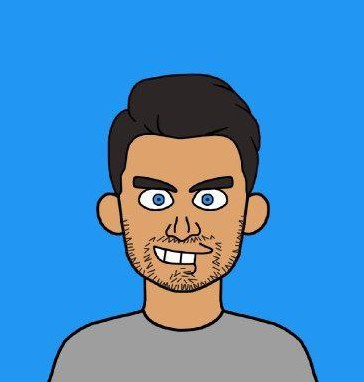
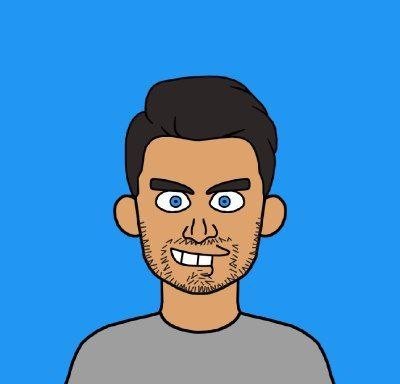
some minor updates

Changed region(s): [[0.1209, 0.1728, 0.8764, 1.0]]

diff --git a/index.html b/index.html
@@ -10,43 +10,75 @@ content="Agraj P Das (@bRUttaZz)! A software enthusiast. Find my projects and co
 <meta name="robots" content="index,follow">
 <meta name="googlebot" content="index,follow">
 <title>bRuttaZz</title>
+<script type="application/ld+json">
+{
+"@context": "https://schema.org",
+"@id": "https://brutt.site",
+"@type": "WebPage",
+"name": "Agraj P Das (bRuttaZz)",
+"url": "https://brutt.site",
+"description": "Agraj P Das (@bRUttaZz)! A software enthusiast. Find my projects and connection info over here!",
+"logo": "https://brutt.site/assets/images/avatar.jpg",
+"sameAs": [
+"https://twitter.com/bruttazz_",
+"https://github.com/bruttazz",
+"https://instagram.com/bruttazz",
+"https://fosstodon.org/@bRUttaZz"
+]
+}
+</script>
 <link rel="stylesheet" href="./assets/style.css">
 <link rel="shortcut icon" href="./assets/images/avatar.jpg" type="image/x-icon">
+<link href="https://cdn.jsdelivr.net/npm/@mdi/font@7.4.47/css/materialdesignicons.min.css" rel="stylesheet"
+crossorigin="anonymous">
+<meta property="og:locale" content="en_GB">
+<meta property="og:type" content="website">
+<meta property="og:title" content="Agraj P Das (@bRuttaZz)">
+<meta property="og:description"
+content="Agraj P Das (@bRUttaZz)! A software enthusiast. Find my projects and connection info over here!">
+<meta property="og:url" content="https://brutt.site">
+<meta property="og:site_name" content="bRuttaZz">
+<meta property="og:image" content="https://brutt.site/assets/images/avatar.jpg">
+<meta name="twitter:card" content="summary_large_image">
+<meta name="twitter:title" content="Agraj P Das (@bRuttaZz)">
+<meta name="twitter:description"
+content="Agraj P Das (@bRUttaZz)! A software enthusiast. Find my projects and connection info over here!">
+<meta name="twitter:site" content="@bRuttaZz">
+<meta name="twitter:creator" content="@bRuttaZz">
+<meta name="twitter:image" content="https://brutt.site/assets/images/avatar.jpg">
 </head>
 <body>
 <div class="profile-cover">
 <h1>Agraj P Das</h1>
-<div class="switch-box">
-<img>
+<div class="theme-swticher theme-switcher-btn text-center m-md-4 ">
+<span class="mdi mdi-brightness-6 fs-5"></span>
 </div>
 <p class="short-catch">This site is intentionally being simple..</p>
 <div class="container">
 <div class="profile-img">
-<img src="./assets/images/me.jpg" class="realtar">
+<img src="./assets/images/avatar.jpg" class="realtar">
 </div>
 <div class="bio">
 <div class="bio-info">
-<span>dob</span><b> 28-10-2001 </b>
+<span>dob</span><b> &nbsp28-10-2001 </b>
 </div><div class="bio-info">
-<span>height</span><b> not yet measured </b>
+<span>height</span><b> &nbspnot yet measured </b>
 </div><div class="bio-info">
-<span>occupation</span><b> R&D Engineer, Pixdynamics Pvt Ltd </b>
+<span>occupation</span><b> &nbspR&D Engineer, Pixdynamics Pvt Ltd </b>
 </div><div class="bio-info">
-<span>localization</span><b> Kochi, Kerala </b>
+<span>localization</span><b> &nbspKochi, Kerala </b>
 </div><div class="bio-info">
-<span>expertise</span><b> Web Technologies, Applied AI, System Design, Containers </b>
+<span>expertise</span><b> &nbspWeb Technologies, Applied AI, System Design, Containers </b>
 </div><div class="bio-info">
-<span>proficient human languages</span><b> Malayalam, English </b>
+<span>proficient human languages</span><b> &nbspMalayalam, English </b>
 </div><div class="bio-info">
-<span>proficient computer languages</span><b> Python, JS, Go, C++ </b>
+<span>proficient computer languages</span><b> &nbspPython, JS, Go, C++ </b>
 </div><div class="bio-info">
-<span>areas of interest</span><b> System Design, System Kernal, Computer Networking </b>
+<span>ask me about</span><b> &nbspSystem Design, Containers, Computer Networking </b>
 </div><div class="bio-info">
-<span>pgp keys</span><b> <a href="./facts/pgp.key" >download</a> </b>
+<span>pgp keys</span><b> &nbsp<a href="./facts/pgp.key" >4546 EC98 5FA6 E6CD E09A 5114 18CD 31EE 87B1 AA02</a> </b>
 </div><div class="bio-info">
-<span>github</span><b> <a href="https://github.com/bruttazz">bRuttaZz</a> </b>
-</div><div class="bio-info">
-<span>portfolio (resume maybe)</span><b> <a href="https://docs.google.com/document/d/1b6DY4mMml01b1PXEojT7NmB7B3qYrsX8q_c0ABdWuI0/edit?usp=sharing">G-drive</a> </b>
+<span>github</span><b> &nbsp<a href="https://github.com/bruttazz">bRuttaZz</a> </b>
 </div>
 <!-- will be filled with about.me.json content  -->
 </div>
@@ -63,17 +95,17 @@ content="Agraj P Das (@bRUttaZz)! A software enthusiast. Find my projects and co
 </div>
 </div>
 <center>
-<p>
+<p class="social-media-icons">
 <a href=https://github.com/bruttazz>
-<img src="./assets/images/socialmedia/github.png" width=20px>
+<span class="mdi mdi-github"></span>
 </a><a href=https://fosstodon.org/@bRuttaZz>
-<img src="./assets/images/socialmedia/mastodon.png" width=20px>
+<span class="mdi mdi-mastodon"></span>
 </a><a href=https://www.instagram.com/bRuttaZz>
-<img src="./assets/images/socialmedia/insta.png" width=20px>
+<span class="mdi mdi-instagram"></span>
 </a><a href=https://www.linkedin.com/in/agraj-p-das-a656a423b>
-<img src="./assets/images/socialmedia/linkedin.png" width=20px>
+<span class="mdi mdi-linkedin"></span>
 </a><a href=https://twitter.com/bruttazz_>
-<img src="./assets/images/socialmedia/twitter.png" width=20px>
+<span class="mdi mdi-twitter"></span>
 </a>
 </p>
 </center>
@@ -81,9 +113,7 @@ content="Agraj P Das (@bRUttaZz)! A software enthusiast. Find my projects and co
 <!-- the projects section  -->
 <div class="project-sec">
 <b class="project-sec-heading">
-<span>
-<img src="./assets/images/craps/pinned.png" width="20px">
-</span>
+<span class="mdi mdi-pin"></span>
 pinned projects
 </b>
 <div class="project-cards">
@@ -131,7 +161,7 @@ pinned projects
 <script>
 const avatar = document.createElement("img")
 avatar.classList.add("avatar")
-avatar.src = "./assets/images/avatar.jpg"
+avatar.src = "./assets/images/me.jpg"
 const profileImageContainer = document.querySelector(".profile-img")
 const realtar = document.querySelector(".realtar")
 let avatarFlag = true;
@@ -146,12 +176,44 @@ profileImageContainer.append(realtar);
 }
 avatarFlag = !avatarFlag
 });
+/**
+* Bind theming switching and ..you knw..!
+*/
+(function bindThemeSwitch() {
+const systemMode = window.matchMedia("(prefers-color-scheme: dark)");
+const setSysTheme = () => {
+if (systemMode.matches) {
+document.documentElement.classList.add("dark")
+sessionStorage.setItem("theme-selection", "dark");
+} else {
+document.documentElement.classList.remove("dark")
+sessionStorage.setItem("theme-selection", "light");
+}
+}
+// set sys theme
+const cachedState = sessionStorage.getItem("theme-selection")
+if (cachedState === "dark")
+document.documentElement.classList.add("dark")
+else if (!cachedState)
+setSysTheme()
+systemMode.addEventListener("change", setSysTheme)
+// add custom button functionality
+document.querySelector(".theme-switcher-btn")?.addEventListener("click", (e) => {
+if (document.documentElement.classList.contains("dark")) {
+document.documentElement.classList.remove("dark");
+sessionStorage.setItem("theme-selection", "light");
+} else {
+document.documentElement.classList.add("dark")
+sessionStorage.setItem("theme-selection", "dark");
+}
+})
+})();
 </script>
 <noscript>Pardon! This page require Javascript to render. Kindly use a modern browser :)</noscript>
 </body>
 <footer>
 <center>
-<a rel="me" href="https://fosstodon.org/@bRuttaZz" style="color: blue;">--</a>
+<a rel="me" href="https://fosstodon.org/@bRuttaZz" style="color: blue;">-</a>
 </center>
 </footer>
 </html>

diff --git a/assets/style.css b/assets/style.css
@@ -4,13 +4,31 @@ body {
     font-family: 'Roboto', sans-serif;
 }
 
-a {
-    text-decoration: none;
-    color: #cef083;
+:root {
+     /* default to light mode  */
+    --background-color: #fafafa;
+    --profile-cover-bg: antiquewhite;
+    --profile-cover-text-color: #0e0d0d;
+    --profile-cover-secondary-text-color: rgb(124, 124, 123);
+    --profile-cover-bio-text-color: rgb(73, 73, 73);
+    --profile-cover-bio-badge-bg-color: rgb(158, 191, 253);
+    --profile-cover-bio-badge-text-color: rgb(88, 88, 88);
+    --profile-cover-about-bg: rgba(131, 238, 117, 0.658);
+    --profile-cover-about-text: rgb(75, 75, 75);
+    --profile-cover-about-text-secondary: rgb(109, 109, 109);
+    --project-section-bg: rgba(191, 206, 87, 0.4);
+    --project-section-text: gray;
+    --project-card-bg: antiquewhite;
+    --project-card-text: rgb(80, 80, 80);
+    --project-card-badge-bg: rgba(158, 191, 253);
+    --anchor-txt-color: #177d97;
+
+    background-color: var(--background-color);
 }
 
-:root {
-    background-color: #0d1117;
+.dark {
+    /* and the dark mode  */
+    --background-color: #0d1117;
     --profile-cover-bg: #1e2227;
     --profile-cover-text-color: #fafafa;
     --profile-cover-secondary-text-color: rgb(124, 124, 123);
@@ -25,32 +43,13 @@ a {
     --project-card-bg: #c1bfbf66;
     --project-card-text: rgb(34, 34, 34);
     --project-card-badge-bg: rgb(145, 152, 166);
+    --anchor-txt-color: #cef083;
 }
 
-@media (prefers-color-scheme: light) {
-    :root {
-        background-color: #fafafa;
-        --profile-cover-bg: antiquewhite;
-        --profile-cover-text-color: #0e0d0d;
-        --profile-cover-secondary-text-color: rgb(124, 124, 123);
-        --profile-cover-bio-text-color: rgb(73, 73, 73);
-        --profile-cover-bio-badge-bg-color: rgb(158, 191, 253);
-        --profile-cover-bio-badge-text-color: rgb(88, 88, 88);
-        --profile-cover-about-bg: rgba(131, 238, 117, 0.658);
-        --profile-cover-about-text: rgb(75, 75, 75);
-        --profile-cover-about-text-secondary: rgb(109, 109, 109);
-        --project-section-bg: rgba(191, 206, 87, 0.4);
-        --project-section-text: gray;
-        --project-card-bg: antiquewhite;
-        --project-card-text: rgb(80, 80, 80);
-        --project-card-badge-bg: rgba(158, 191, 253);
-    }
-
-    a {
-        color: #177d97;
-    }
+a {
+    text-decoration: none;
+    color: var(--anchor-txt-color);
 }
-
 
 .profile-cover {
     background-color: var(--profile-cover-bg);
@@ -108,8 +107,8 @@ a {
 
 .profile-cover .container .profile-img img {
     border-radius: 30px;
-    max-width: 180px;
-    min-width: 180px;
+    width: 180px;
+    height: 180px;
     margin-right: 20px;
 }
 
@@ -226,22 +225,27 @@ a {
     left: auto;
     right: 35px;
     padding: 5px;
-}
-
-.switch-box img {
-    width: 100%;
-    object-fit: cover;
-}
-
-@media (prefers-color-scheme: light) {
-    .switch-box img {
-        content: url("./images/craps/dark.png");
-    }
-}
-
-
-@media (prefers-color-scheme: dark) {
-    .switch-box img {
-        content: url("./images/craps/light.png");
-    }
 } */
+
+.theme-swticher {
+    border-radius: 5px;
+    background-color: var(--profile-cover-about-bg);
+    vertical-align: center;
+    text-align: center;
+    width: 23px;
+    height: 23px;
+    font-size: larger;
+    position: absolute;
+    top: 35px;
+    left: auto;
+    right: 35px;
+    padding: 8px;
+}
+
+.social-media-icons {
+    font-size: larger;
+}
+
+.social-media-icons a {
+    color: var(--profile-cover-secondary-text-color);
+}

diff --git a/src/render.js b/src/render.js
@@ -4,7 +4,7 @@ const projects = require("../facts/projects.json");
 
 function renderBio() {
     const bioString = `<div class="bio-info">
-        <span>KEYY</span><b> VALL </b>
+        <span>KEYY</span><b> &nbspVALL </b>
     </div>`
 
     let outString = ""
@@ -30,7 +30,7 @@ function renderAbout() {
     let socialMedia = ""
     for (let key in about.socialMediaList) {
         socialMedia += `<a href=${about.socialMedia[key]}>
-            <img src=\"${about.socialMediaList[key]}\" width=20px> 
+            <span class=\"${about.socialMediaList[key]}\"></span> 
         </a>`
     }
 
@@ -45,7 +45,7 @@ function renderAbout() {
             </div>
         </div>
         <center>
-            <p>
+            <p class="social-media-icons">
                 ${socialMedia}
             </p>
         </center>

diff --git a/README.md b/README.md
@@ -1,3 +1,7 @@
 Nothing but a personal webpage
 
 Find it over [here](https://bruttazz.github.io)
+
+
+credits :
+ - [pictogrammers](https://pictogrammers.com)
